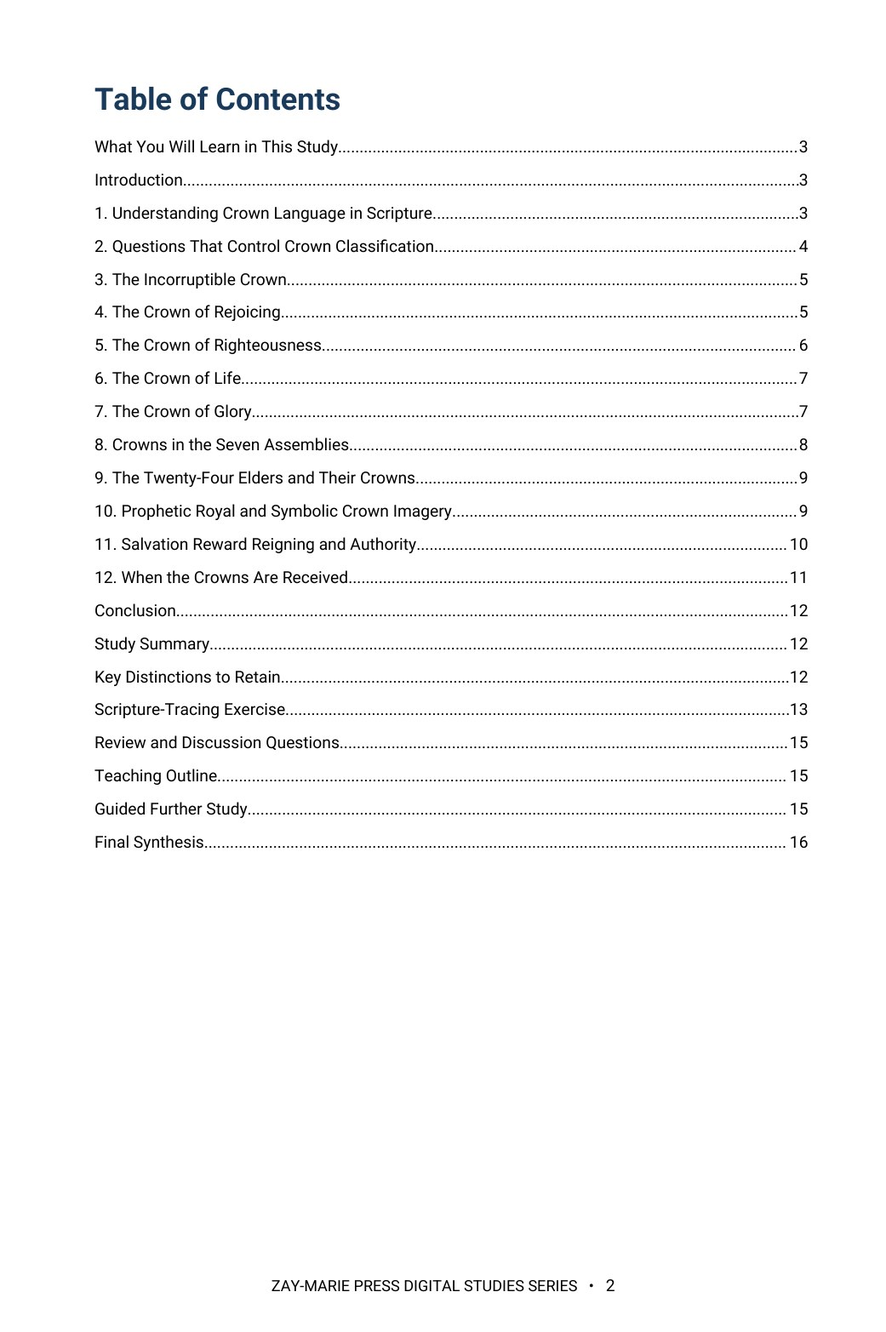
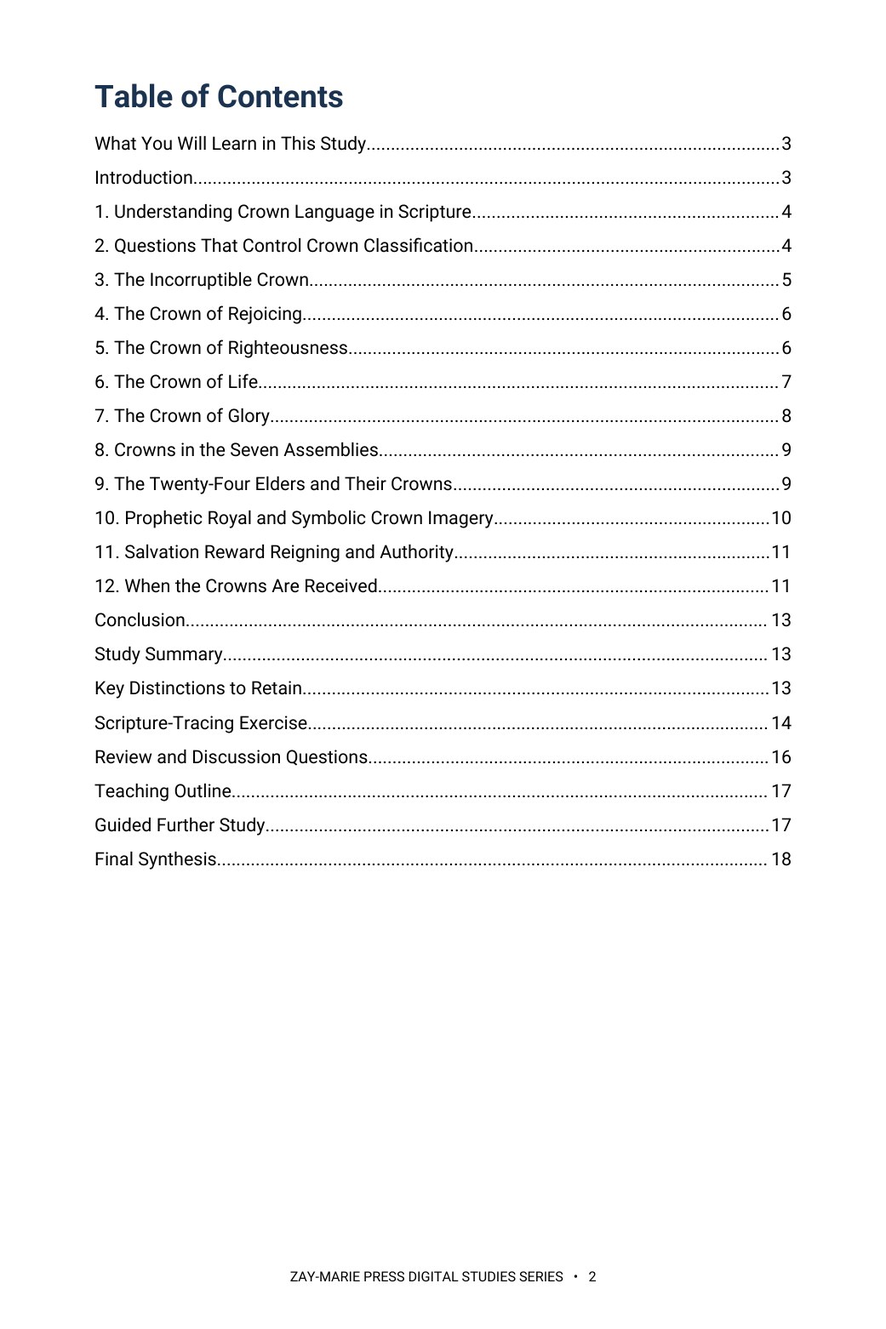
Study 33: retrofit to doctrinal upgrade and v1.48 layout (18 pp, 10 pt); site.js 33:18; previews 2, 3, 5; trackers v1.43/v1.137
Claude-Session: https://claude.ai/code/session_01KcENxFzE91mCRyTPWhcwnE

diff --git a/study-33-the-crowns-of-scripture.html b/study-33-the-crowns-of-scripture.html
@@ -2,12 +2,12 @@
 <html lang="en"><head><meta charset="utf-8"><meta name="viewport" content="width=device-width,initial-scale=1"><title>The Crowns of Scripture | Zay-Marie Press</title><meta name="description" content="Distinguish the crowns of Scripture by their recipients, settings, conditions, timing, and purpose without combining distinct reward, prophetic, royal, and symbolic passages."><link rel="stylesheet" href="styles.css?v=20260928-8"><link rel="icon" type="image/png" href="assets/zay-marie-press-favicon.png"><style>
 .study-detail-page{background:#fff;color:#252525}.detail-hero{background:linear-gradient(135deg,#f8f5ec,#e3ece2);padding:58px 0}.detail-hero-grid{display:grid;grid-template-columns:minmax(250px,.72fr) minmax(0,1.28fr);gap:58px;align-items:center}.detail-cover{max-width:390px;margin:auto}.detail-cover img{display:block;width:100%;height:auto;box-shadow:0 14px 36px rgba(8,45,69,.18)}.detail-hero h1{font-size:clamp(2.7rem,5vw,4.7rem);line-height:1.02;margin:8px 0 10px;color:#143823}.detail-subtitle{font-family:Georgia,serif;font-size:1.35rem;font-weight:700;color:#082d45;margin:0 0 7px}.detail-kicker{font-family:Georgia,serif;font-style:italic;font-size:1.05rem;color:#4a4a44;margin:0 0 22px}.detail-copy{font-size:1.08rem;line-height:1.65;max-width:760px}.detail-buyline{display:flex;align-items:center;gap:18px;flex-wrap:wrap;margin-top:25px}.detail-price{font-family:Georgia,serif;font-size:2rem;font-weight:700;color:#143823}.detail-format,.preview-card .page-no{font-family:Arial,sans-serif;font-size:.76rem;font-weight:700;letter-spacing:.1em;text-transform:uppercase;color:#176b3a}.detail-button{display:inline-block;background:#176b3a;color:#fff;padding:13px 22px;font-family:Arial,sans-serif;font-size:.8rem;font-weight:700;letter-spacing:.07em;text-transform:uppercase}.detail-button.pending{opacity:.72;cursor:default}.detail-section{padding:66px 0}.detail-section.soft{background:#f6f7f2}.detail-section.cream{background:#faf8f2}.detail-section h2{color:#143823;margin:6px 0 18px;font-size:clamp(2rem,3.4vw,3rem)}.detail-section .lead{max-width:920px;font-size:1.1rem;line-height:1.62}.study-distinction{max-width:920px;margin-top:28px;margin-bottom:28px;padding:26px 28px;background:#fff;border:1px solid #d8d1bf;border-left:4px solid #b8871c}.study-distinction h3{margin:0 0 10px;color:#143823}.study-distinction p{margin:0 0 14px;line-height:1.62}.study-distinction a{font-family:Arial,sans-serif;font-weight:700;color:#176b3a;text-decoration:none}.study-points{display:grid;grid-template-columns:repeat(3,1fr);gap:18px;margin-top:28px;margin-bottom:28px}.study-point,.scripture-card,.preview-card,.include-item{background:#fff;border:1px solid var(--line);text-align:left}.study-point{border-top:3px solid #176b3a;padding:22px}.study-point h3{color:#143823;margin:0 0 8px;font-size:1.2rem}.study-point p,.scripture-card p,.preview-card p,.include-item p{margin:0;line-height:1.55}.scripture-grid{display:grid;grid-template-columns:repeat(4,1fr);gap:14px;margin-top:24px;margin-bottom:24px}.scripture-card{padding:22px 20px;color:#143823}.scripture-card h3{margin:0 0 9px;font-family:Georgia,serif;font-size:1rem;line-height:1.35}.scripture-card p{font-size:.94rem;color:#45453f}.excerpt{max-width:900px;margin:28px auto;border-left:4px solid #b8871c;padding:10px 0 10px 28px}.excerpt blockquote{font-family:Georgia,serif;font-size:clamp(1.45rem,2.5vw,2rem);line-height:1.45;color:#143823;margin:0 0 16px}.excerpt p{line-height:1.6;margin:0}.preview-grid{display:grid;grid-template-columns:repeat(2,1fr);gap:20px;margin-top:28px;margin-bottom:28px}.preview-card{padding:18px;min-height:210px;box-shadow:0 7px 20px rgba(20,40,25,.05)}.preview-image-link{display:block;margin:0 0 18px}.preview-image-link img{display:block;width:100%;height:auto;border:1px solid #d8d1bf;box-shadow:0 8px 22px rgba(20,40,25,.1);transition:transform .18s ease,box-shadow .18s ease}.preview-image-link:hover img{transform:translateY(-2px);box-shadow:0 11px 28px rgba(20,40,25,.16)}.preview-card h3{color:#143823;margin:8px 0 10px}.preview-instruction{margin:10px 0 0;font-family:Arial,sans-serif;font-size:.78rem;letter-spacing:.04em;color:#5b5b55}.includes-grid{display:grid;grid-template-columns:repeat(4,1fr);gap:14px;margin-top:26px}.include-item{padding:22px 20px;color:#143823}.include-item h3{margin:0 0 9px;font-family:Arial,sans-serif;font-size:.86rem;line-height:1.35;letter-spacing:.02em}.include-item p{font-size:.94rem;color:#45453f}.final-buy{background:#082d45;color:#fff;border-top:4px solid #b8871c;padding:42px 48px;display:grid;grid-template-columns:1fr auto;gap:36px;align-items:center}.final-buy .eyebrow,.final-buy h2,.final-buy .detail-price{color:#fff}.final-buy h2{margin:7px 0 6px}.final-buy p{margin:0}.final-offer{text-align:center}.back-link{display:inline-block;margin-top:18px;color:#143823;font-family:Arial,sans-serif;font-weight:700;text-decoration:none}.preview-lightbox{position:fixed;inset:0;z-index:10000;display:none;align-items:flex-start;justify-content:center;background:rgba(8,22,16,.88);padding:24px;overflow:auto}.preview-lightbox.open{display:flex}.preview-lightbox img{display:block;width:auto;height:auto;max-width:none;box-shadow:0 18px 55px rgba(0,0,0,.4);background:#fff}.preview-lightbox-close{position:fixed;top:18px;right:24px;z-index:10001;width:46px;height:46px;border:1px solid rgba(255,255,255,.65);border-radius:50%;background:rgba(0,0,0,.55);color:#fff;font:32px/1 Arial,sans-serif;cursor:pointer}@media(max-width:900px){.detail-hero-grid{grid-template-columns:1fr;gap:34px}.detail-cover{max-width:330px}.study-points{grid-template-columns:repeat(2,1fr)}.scripture-grid,.includes-grid{grid-template-columns:repeat(2,1fr)}.preview-grid,.final-buy{grid-template-columns:1fr}.final-offer{text-align:left}}@media(max-width:560px){.detail-hero{padding:42px 0}.detail-section{padding:50px 0}.study-points,.scripture-grid,.includes-grid{grid-template-columns:1fr}.final-buy{padding:32px 24px}.detail-buyline{align-items:flex-start;flex-direction:column;gap:8px}.preview-lightbox{padding:58px 10px 24px}.preview-lightbox img{width:100%;max-width:100%;height:auto}}</style></head><body class="study-detail-page">
 <header class="site-header"><div class="wrap nav"><a class="logo" href="index.html" aria-label="Zay-Marie Press home"><img src="assets/zay-marie-press-logo-hq.png" alt="Zay-Marie Press" width="420" height="238"></a><button class="menu-toggle" type="button" aria-expanded="false" aria-controls="primary-nav">MENU</button><nav aria-label="Primary navigation" class="primary-nav" id="primary-nav"><a href="index.html">HOME</a><a href="books.html">BOOKS</a><a href="series.html">SERIES</a><a class="active" aria-current="page" href="digital-studies.html">DIGITAL STUDIES</a><a href="biblical-hermeneutics-course.html">COURSE</a><a href="about.html">ABOUT</a><a href="resources.html">RESOURCES</a><a href="contact.html">CONTACT</a></nav></div></header><main>
-<section class="detail-hero"><div class="wrap detail-hero-grid"><div class="detail-cover"><picture><source srcset="assets/study-33-cover.webp" type="image/webp"><img src="assets/study-33-cover.jpg" alt="The Crowns of Scripture cover"></picture></div><div><div class="eyebrow">STUDY 33 · DIGITAL STUDY</div><h1>The Crowns of Scripture</h1><p class="detail-subtitle">Distinguishing Their Recipients, Timing, Basis, and Purpose</p><p class="detail-kicker">A disciplined study of crown language, reward, endurance, accountability, and royal authority</p><p class="detail-copy">Crown passages are often gathered into one familiar list and assigned to every believer without first asking who is addressed, what kind of crown is in view, when it is received, or why it is given. Scripture’s own contexts require more careful classification.</p><p class="detail-copy">This study examines Pauline reward passages, prophetic promises, Revelation’s crowned figures, and royal symbolism. It distinguishes salvation, reward, honor, reigning, authority, vindication, and worship while preserving each passage’s stated audience and programmatic setting.</p><div class="detail-buyline"><span class="detail-price">$5.99</span><span class="detail-format">Digital PDF · 16 Pages</span><span class="detail-button pending" aria-disabled="true">Checkout Coming Soon</span></div></div></div></section>
+<section class="detail-hero"><div class="wrap detail-hero-grid"><div class="detail-cover"><picture><source srcset="assets/study-33-cover.webp" type="image/webp"><img src="assets/study-33-cover.jpg" alt="The Crowns of Scripture cover"></picture></div><div><div class="eyebrow">STUDY 33 · DIGITAL STUDY</div><h1>The Crowns of Scripture</h1><p class="detail-subtitle">Distinguishing Their Recipients, Timing, Basis, and Purpose</p><p class="detail-kicker">A disciplined study of crown language, reward, endurance, accountability, and royal authority</p><p class="detail-copy">Crown passages are often gathered into one familiar list and assigned to every believer without first asking who is addressed, what kind of crown is in view, when it is received, or why it is given. Scripture’s own contexts require more careful classification.</p><p class="detail-copy">This study examines Pauline reward passages, prophetic promises, Revelation’s crowned figures, and royal symbolism. It distinguishes salvation, reward, honor, reigning, authority, vindication, and worship while preserving each passage’s stated audience and programmatic setting.</p><div class="detail-buyline"><span class="detail-price">$5.99</span><span class="detail-format">Digital PDF · 18 Pages</span><span class="detail-button pending" aria-disabled="true">Checkout Coming Soon</span></div></div></div></section>
 <section class="detail-section"><div class="wrap"><div class="eyebrow">ABOUT THIS STUDY</div><h2>Crown Language Is Not One Uniform Category</h2><p class="lead">Scripture uses crowns for disciplined service, ministry fruit, faithful completion, endurance, shepherding, overcoming, delegated authority, worship, symbolic identity, and Christ’s royal supremacy. Similar imagery does not make every passage identical in audience or purpose.</p><p class="lead">The study begins with vocabulary and classification controls, then follows each major passage in context. Conclusions are identified as explicit, necessarily inferred, reasonably inferred, or tentative so familiar teaching never outruns the evidence.</p><p class="lead">This is not a study of Scripture’s judgments as a whole, which Study 31 classifies by subject, time, and standard, nor of Paul’s own Day-of-Christ language, which Study 8 defines on its own terms. Its task is narrower: to ask, of each individual crown passage, who receives it, for what, and under what image — service, endurance, shepherding, or royal supremacy — so that one familiar word never flattens several distinct pictures into a single reward.</p><div class="study-distinction"><h3>How These Studies Relate</h3><p>Study 33 distinguishes reward crowns from other crown imagery, honor, and royal authority according to context.</p><p><a href="study-31-the-judgments-of-scripture.html">Study 31 — The Judgments of Scripture</a> Locate reward and the Judgment Seat among Scripture’s distinct judgments; this prevents a reward image from being confused with condemnation or another judgment scene.</p><p><a href="study-08-the-day-of-christ.html">Study 8 — The Day of Christ</a> Check what Paul’s Day-of-Christ passages actually say about future rejoicing and completion before equating every reference with a specific crown.</p><p class="connection-guide-link"><a href="study-connections.html#study-33">Explore the full connection guide for Study 33 →</a></p></div><div class="cross-strand-note"><p class="cross-strand-label">FROM THE PARABLES STRAND</p><p>Three parables raise reward questions this study answers by classification rather than assumption.</p><p><a href="parable-21-the-talents.html">The Talents</a> · <a href="parable-22-the-minas.html">The Minas</a> · <a href="parable-29-the-laborers-in-the-vineyard.html">The Laborers in the Vineyard</a></p></div></div></section>
 <section class="detail-section soft"><div class="wrap"><div class="eyebrow">WHAT YOU’LL STUDY</div><h2>Classify Every Crown Before Combining Passages</h2><div class="study-points"><div class="study-point"><h3>Language and Context</h3><p>Distinguish <em>stephanos</em>, <em>diadema</em>, metaphorical reward, and symbolic crown imagery.</p></div><div class="study-point"><h3>Recipients</h3><p>Identify whether Paul, members of the Body, elders, overcomers, heavenly elders, or Christ is in view.</p></div><div class="study-point"><h3>Basis and Condition</h3><p>Trace discipline, ministry fruit, faithful completion, endurance, shepherding, and overcoming.</p></div><div class="study-point"><h3>Timing</h3><p>Compare Christ’s appearing, the Judgment Seat of Christ, death, approval, Kingdom expectation, and throne visions.</p></div><div class="study-point"><h3>Purpose</h3><p>Separate reward, joy, honor, vindication, delegated authority, worship, and royal supremacy.</p></div><div class="study-point"><h3>Programmatic Setting</h3><p>Test each crown promise against its stated recipients, timing, and setting before deciding how it relates to the others.</p></div></div></div></section>
 <section class="detail-section cream"><div class="wrap"><div class="eyebrow">KEY SCRIPTURES</div><h2>Follow the Crown Passages in Their Own Settings</h2><div class="scripture-grid"><div class="scripture-card"><h3>1 Corinthians 9:24–27</h3><p>Discipline, service, approval, and an incorruptible crown.</p></div><div class="scripture-card"><h3>1 Thessalonians 2:19–20</h3><p>Paul’s converts as his crown and joy at Christ’s coming.</p></div><div class="scripture-card"><h3>2 Timothy 4:6–8</h3><p>Faithful completion, Christ’s appearing, and the crown of righteousness.</p></div><div class="scripture-card"><h3>James 1:12</h3><p>Endurance under trial and the crown of life.</p></div><div class="scripture-card"><h3>1 Peter 5:1–4</h3><p>Faithful elders and the unfading crown of glory.</p></div><div class="scripture-card"><h3>Revelation 2–3</h3><p>Overcoming, faithfulness, authority, and crown warnings.</p></div><div class="scripture-card"><h3>Revelation 4:4, 10</h3><p>The twenty-four elders, crowned worship, and derived honor.</p></div><div class="scripture-card"><h3>Revelation 19:11–16</h3><p>Christ’s many diadems and unique royal supremacy.</p></div></div></div></section>
 <section class="detail-section"><div class="wrap"><div class="eyebrow">FROM THE STUDY</div><h2>Similar Imagery Does Not Create Transfer</h2><div class="excerpt"><blockquote>“Crown passages must be classified before they are combined.”</blockquote><p>Audience, program, form, basis, timing, purpose, and level of certainty protect the reader from turning shared imagery into an unauthorized transfer of promises or responsibilities.</p></div></div></section>
 <section class="detail-section soft"><div class="wrap"><div class="eyebrow">A LOOK INSIDE</div><h2>Preview the Study Before You Purchase</h2><p class="preview-instruction">Click any page to enlarge it for reading.</p><div class="preview-grid"><div class="preview-card"><a class="preview-image-link" data-preview-lightbox href="assets/study-33-page-2.jpg"><img src="assets/study-33-page-2.jpg" alt="Study 33 interior preview — page 2, table of contents"></a><div class="page-no">Page 2</div><h3>Table of Contents</h3><p>See how the study moves from crown vocabulary through each passage to timing and classification.</p></div><div class="preview-card"><a class="preview-image-link" data-preview-lightbox href="assets/study-33-page-3.jpg"><img src="assets/study-33-page-3.jpg" alt="Study 33 interior preview — page 3, What You Will Learn and Study Goal"></a><div class="page-no">Page 3</div><h3>What You Will Learn</h3><p>Begin with the skills you will practice in classifying each crown passage by its audience, condition, and timing.</p></div><div class="preview-card"><a class="preview-image-link" data-preview-lightbox href="assets/study-33-page-5.jpg"><img src="assets/study-33-page-5.jpg" alt="Study 33 interior preview — page 5, The Incorruptible Crown"></a><div class="page-no">Page 5</div><h3>The Incorruptible Crown</h3><p>Follow Paul’s athletic image in 1 Corinthians 9 and the wider passage on evaluating service.</p></div></div></div></section>
-<section class="detail-section"><div class="wrap"><div class="eyebrow">WHAT’S INCLUDED</div><h2>A Focused Study Built for<br>Classification and Careful Interpretation</h2><div class="includes-grid"><div class="include-item"><h3>16-Page Biblical Study</h3><p>A substantial treatment of the principal crown passages and their distinct settings.</p></div><div class="include-item"><h3>Twelve Teaching Sections</h3><p>Move from vocabulary and controls through Pauline, prophetic, symbolic, and royal uses.</p></div><div class="include-item"><h3>Passage Classification Method</h3><p>Identify audience, program, form, basis, timing, purpose, and evidentiary certainty.</p></div><div class="include-item"><h3>High-Contrast Tables</h3><p>Compare crown passages, recipients, timing, and warranted conclusions clearly.</p></div><div class="include-item"><h3>Scripture-Tracing Exercise</h3><p>Work through Pauline reward, prophetic endurance, elder, throne, and royal passages.</p></div><div class="include-item"><h3>Review Questions</h3><p>Test your ability to distinguish shared imagery from programmatic ownership.</p></div><div class="include-item"><h3>Teaching Outline</h3><p>Use a ready framework for presenting crown language responsibly and accurately.</p></div><div class="include-item"><h3>Guided Further Study</h3><p>Grouped passages and evidence controls support continued independent investigation.</p></div></div></div></section>
-<section class="detail-section cream"><div class="wrap"><div class="final-buy"><div><div class="eyebrow">STUDY 33 · DIGITAL STUDY</div><h2>The Crowns of Scripture</h2><p>Digital PDF · 16 Pages · For personal use</p></div><div class="final-offer"><div class="detail-price">$5.99</div><span class="detail-button pending" aria-disabled="true">Checkout Coming Soon</span></div></div><a class="back-link" href="digital-studies.html">← Back to All Digital Studies</a></div></section><section class="study-method-course-bridge"><div class="wrap"><div class="study-method-course-panel"><div><div class="eyebrow">BUILD THE INTERPRETIVE METHOD</div><h2>Want More Than a Focused Study?</h2><p>Digital Studies examine particular biblical subjects and difficult passages. The 40-lesson Biblical Hermeneutics course teaches a complete, repeatable method for establishing meaning in context, determining proper assignment, and making responsible application.</p></div><a class="btn btn-primary" href="biblical-hermeneutics-course.html">BIBLICAL HERMENEUTICS COURSE</a></div></div></section></main>
+<section class="detail-section"><div class="wrap"><div class="eyebrow">WHAT’S INCLUDED</div><h2>A Focused Study Built for<br>Classification and Careful Interpretation</h2><div class="includes-grid"><div class="include-item"><h3>18-Page Biblical Study</h3><p>A substantial treatment of the principal crown passages and their distinct settings.</p></div><div class="include-item"><h3>Twelve Teaching Sections</h3><p>Move from vocabulary and controls through Pauline, prophetic, symbolic, and royal uses.</p></div><div class="include-item"><h3>Passage Classification Method</h3><p>Identify audience, program, form, basis, timing, purpose, and evidentiary certainty.</p></div><div class="include-item"><h3>High-Contrast Tables</h3><p>Compare crown passages, recipients, timing, and warranted conclusions clearly.</p></div><div class="include-item"><h3>Scripture-Tracing Exercise</h3><p>Work through Pauline reward, prophetic endurance, elder, throne, and royal passages.</p></div><div class="include-item"><h3>Review Questions</h3><p>Test your ability to distinguish shared imagery from programmatic ownership.</p></div><div class="include-item"><h3>Teaching Outline</h3><p>Use a ready framework for presenting crown language responsibly and accurately.</p></div><div class="include-item"><h3>Guided Further Study</h3><p>Grouped passages and evidence controls support continued independent investigation.</p></div></div></div></section>
+<section class="detail-section cream"><div class="wrap"><div class="final-buy"><div><div class="eyebrow">STUDY 33 · DIGITAL STUDY</div><h2>The Crowns of Scripture</h2><p>Digital PDF · 18 Pages · For personal use</p></div><div class="final-offer"><div class="detail-price">$5.99</div><span class="detail-button pending" aria-disabled="true">Checkout Coming Soon</span></div></div><a class="back-link" href="digital-studies.html">← Back to All Digital Studies</a></div></section><section class="study-method-course-bridge"><div class="wrap"><div class="study-method-course-panel"><div><div class="eyebrow">BUILD THE INTERPRETIVE METHOD</div><h2>Want More Than a Focused Study?</h2><p>Digital Studies examine particular biblical subjects and difficult passages. The 40-lesson Biblical Hermeneutics course teaches a complete, repeatable method for establishing meaning in context, determining proper assignment, and making responsible application.</p></div><a class="btn btn-primary" href="biblical-hermeneutics-course.html">BIBLICAL HERMENEUTICS COURSE</a></div></div></section></main>
 <div class="preview-lightbox" id="preview-lightbox" role="dialog" aria-modal="true" aria-label="Expanded study preview"><button class="preview-lightbox-close" type="button" aria-label="Close preview">×</button><img id="preview-lightbox-image" alt=""></div><footer class="site-footer"><div class="wrap footer-grid"><div class="footer-about"><h3>Zay-Marie Press</h3><p class="footer-tagline"><em>Where the Bible Means What It Says.</em></p><p>Zay-Marie Press is a Christian theological publisher dedicated to producing doctrinally precise, carefully structured biblical resources that equip pastors, teachers, and serious students with clarity, depth, and Scripture-anchored truth.</p><p><a href="https://zaymariepress.com">zaymariepress.com</a><br><a href="mailto:info@zaymariepress.com">info@zaymariepress.com</a></p></div><div class="footer-column"><h3>Explore</h3><div class="footer-links-stacked"><a href="books.html">Books</a><br><a href="series.html">Series</a><br><a href="biblical-hermeneutics-course.html">Course</a><br><a href="digital-studies.html">Digital Studies</a><br><a href="resources.html">Resources</a><br><a href="bible-book-summaries.html">Bible Book Summaries</a><br><a href="doctrinal-packets.html">Doctrinal Packets</a><br><a href="historical-drift.html">Historical Drift</a><br><a href="about.html">About</a><br><a href="contact.html">Contact</a></div></div><div class="footer-column"><h3>Reader Support</h3><div class="footer-links-stacked"><a href="reader-support.html#faq">FAQ</a><br><a href="reader-support.html#shipping-returns">Shipping &amp; Returns</a><br><a href="reader-support.html#digital-downloads">Digital Downloads</a><br><a href="reader-support.html#contact-support">Contact Support</a></div></div><div class="footer-column"><h3>Acts Overlap</h3><p><strong>Acts Overlap Theology Series</strong></p><p><em>Two Distinct Streams. One Overlap.</em></p><p><a href="series.html">Series Overview</a></p></div></div><div class="wrap footer-bottom">© 2026 Zay-Marie Press. All rights reserved.</div></footer><script src="site.js"></script><script>const lightbox=document.getElementById('preview-lightbox'),lightboxImage=document.getElementById('preview-lightbox-image'),closeLightbox=()=>{lightbox.classList.remove('open');lightboxImage.src='';};document.querySelectorAll('[data-preview-lightbox]').forEach(link=>link.addEventListener('click',event=>{event.preventDefault();lightboxImage.src=link.href;lightboxImage.alt=link.querySelector('img').alt;lightbox.classList.add('open');}));document.querySelector('.preview-lightbox-close').addEventListener('click',closeLightbox);lightbox.addEventListener('click',event=>{if(event.target===lightbox)closeLightbox();});document.addEventListener('keydown',event=>{if(event.key==='Escape')closeLightbox();});</script></body></html>

diff --git a/site.js b/site.js
@@ -62,7 +62,7 @@ const resourceModal=document.querySelector('#resource-modal'), resourceModalTitl
 if(resourceModal&&resourceModalTriggers.length){const closeResourceModal=()=>{resourceModal.hidden=true;document.body.classList.remove('resource-modal-open');lastResourceTrigger?.focus();};resourceModalTriggers.forEach(trigger=>trigger.addEventListener('click',()=>{lastResourceTrigger=trigger;if(resourceModalTitle)resourceModalTitle.textContent=trigger.dataset.title||'Resource';if(resourceModalDescription)resourceModalDescription.textContent=trigger.dataset.description||'';if(resourceModalLink){resourceModalLink.href=trigger.dataset.href||'#';resourceModalLink.textContent=trigger.dataset.linkText||'OPEN RESOURCE';}resourceModal.hidden=false;document.body.classList.add('resource-modal-open');resourceModalClose?.focus();}));resourceModalClose?.addEventListener('click',closeResourceModal);resourceModal.addEventListener('click',e=>{if(e.target===resourceModal)closeResourceModal();});document.addEventListener('keydown',e=>{if(e.key==='Escape'&&!resourceModal.hidden)closeResourceModal();});}
 
 /* Display the verified final-PDF page count at the primary purchase decision point. */
-const digitalStudyPageCounts={1:17,2:14,3:16,4:18,5:16,6:16,7:14,8:13,9:16,10:20,11:15,12:15,13:19,14:15,15:16,16:16,17:18,18:18,19:16,20:16,21:17,22:16,23:14,24:16,25:17,26:16,27:16,28:16,29:19,30:17,31:18,32:19,33:16,34:16,35:16,36:16,37:16,38:16,39:16,40:16,41:16,42:16,43:16,44:16,45:16,46:16,47:16,48:16,49:17,50:16,51:16,52:16,53:16,54:16,55:16,56:16,57:16,58:16,61:16,62:16,63:16,64:16,65:16,66:16,67:16,68:16,69:16,70:16,71:16};
+const digitalStudyPageCounts={1:17,2:14,3:16,4:18,5:16,6:16,7:14,8:13,9:16,10:20,11:15,12:15,13:19,14:15,15:16,16:16,17:18,18:18,19:16,20:16,21:17,22:16,23:14,24:16,25:17,26:16,27:16,28:16,29:19,30:17,31:18,32:19,33:18,34:16,35:16,36:16,37:16,38:16,39:16,40:16,41:16,42:16,43:16,44:16,45:16,46:16,47:16,48:16,49:17,50:16,51:16,52:16,53:16,54:16,55:16,56:16,57:16,58:16,61:16,62:16,63:16,64:16,65:16,66:16,67:16,68:16,69:16,70:16,71:16};
 const digitalStudyMatch=window.location.pathname.match(/\/study-(\d+)-/i);
 const digitalStudyFormat=document.querySelector('.detail-hero .detail-format');
 if(digitalStudyMatch&&digitalStudyFormat){const studyNumber=Number(digitalStudyMatch[1]),pageCount=digitalStudyPageCounts[studyNumber];if(pageCount)digitalStudyFormat.textContent=`Digital PDF · ${pageCount} Pages`;}

diff --git a/CLAUDE.md b/CLAUDE.md
@@ -21,7 +21,7 @@ These are kept in the repo at `controlling-documents/` and are the current versi
 - As of v1.48 (publisher directive, 2026-10-02), §6 sets the **body-text standard at 10 pt** and enforces the table-spacing rule, written into this file in the same pass: body paragraphs, lists, table body text and Table of Contents entries are Roboto Regular 10 pt black (previously 9 pt), at 6 pt after / 0 before / 1.08 line spacing (lists 0 pt after each item, 6 pt after the last); headings (17 pt), callout titles (10 pt bold caps), the "Study Outline" sub-heading (12 pt) and the footer are unchanged. Every table, callout boxes included, has 10 pt of controlled spacing before and after: the paragraph before a table has at least 10 pt space-after and the paragraph after it at least 10 pt space-before, so body text never touches a table (the defect was seen on Study 29, under a KJV table). Studies built at 9 pt (1, 3, 7, 8, 10, 23, 26, 29 and the other rebuilt studies) are reset to 10 pt when reopened or in the Wave 5 sweep, and page counts, TOC pages, previews and `site.js` follow each rebuild. In every study check (Step 1) report the body size and measure the first paragraph after each table. Study 29 is the first study rebuilt to it.
 **`controlling-documents/Digital_Studies_Relationship_Map_v1.39.md`** — records each study's distinct subject, its related studies, the eight priced six-study collections, the Paul's Missionary Journeys cross-reference map, and the five primary catalog categories (currently version 1.39, covers Studies 1–71; update it as new studies publish, bump the version number, rename the file to match, and log the change in its own version-history table — mirroring the Master Standard's `_vX.Y` filename convention). Check a proposed topic against it before recommending or writing a new study. (2026-09-28: the file was missing from this repo despite this note referencing it; replaced from the publisher's copy and bumped v1.15→v1.25 in the same pass. If this note ever again points to a version not present under `controlling-documents/`, ask the publisher for a copy rather than proceeding without the check.)
 - **`controlling-documents/Digital_Studies_Category_Standard_v1.1.md`** — FINAL and binding (publisher, 2026-10-01): the rules for the five primary catalog categories (Foundations, Israel & Prophecy, Body of Christ, Passages, Doctrinal Themes), the ordered decision procedure for new studies, the precedents, all 71 fixed assignments, and the cover-label form for each category. Read it before placing any card or cover label. Do not ask the publisher where a study belongs; apply the procedure and state the result. Only the publisher changes a ruling; then bump this Standard's version and filename, re-letter the cover, and update the Relationship Map.
-- **`controlling-documents/Doctrinal_Upgrade_Retrofit_Plan_v1.42.md`** — working tracker for retrofitting Studies 1–59 to the 2026-10-02 doctrinal upgrade (Framework/PAM v1.1, Master Standard v1.40, Rules 7–17): withdrawn-wording search keys, impact tiers, waves and the per-study method. Read it before continuing the retrofit in any session; update status, bump the version and rename the file as work proceeds.
+- **`controlling-documents/Doctrinal_Upgrade_Retrofit_Plan_v1.43.md`** — working tracker for retrofitting Studies 1–59 to the 2026-10-02 doctrinal upgrade (Framework/PAM v1.1, Master Standard v1.40, Rules 7–17): withdrawn-wording search keys, impact tiers, waves and the per-study method. Read it before continuing the retrofit in any session; update status, bump the version and rename the file as work proceeds.
 - **`controlling-documents/Doctrinal_Packet_Standard_v0.3.md`** — Doctrinal Packet Standard (DRAFT; §7 approved). Governs the separate Doctrinal Packets product strand (5-page interpretive PDFs per Bible book — a print-friendly cover as page 1 plus 4 content pages, $2.99, KJV, pilot: Genesis, live at `packet-genesis.html`, hub `doctrinal-packets.html`; site pages say "5 Pages", cover styles live in `packets.css`, Old Testament blue and New Testament soft pale green, hub listed in Bible order). **Preview rule (publisher directive, 2026-09-29, packets only):** previews show about one page's worth in two cropped views (top of page 1 through the anchor texts; the chart section) — never the exegesis, architecture, Mystery contrast, logic chain, outline, or closing. Master Standard §16/§17 still govern Digital Studies. Bump the version and rename the file as the Standard is finalized.
 - **`controlling-documents/Preview_Page_Spoiler_Retrofit_Audit_v1.4.md`** — working tracker for the Studies 1–60 preview-page conclusion-spoiler retrofit (see the section below). Read it before continuing that audit in any session; update its status fields and changelog, bump the version, and rename the file to match as the audit proceeds — same `_vX.Y` convention as the other controlling documents. As of v1.1, the website-side half was DONE: all 60 studies' "What You'll Study" text was judged against the rule (methodology documented in the file) and 22 points across 11 studies were rewritten and pushed; an unrelated Study 22 content bug (Study 21's content had leaked into it) was also found and fixed. As of v1.2, the publisher supplied Studies 1–60's interior production PDFs and the interior-PDF half was also surveyed (read-only): 10 studies (37, 41, 45, 47, 48, 49, 51, 52, 53, 54) were found to have at least one interior "What You Will Learn" violation, 50 studies were confirmed compliant, and the orphaned `assets/study-45-sanctification-under-grace.docx` (removed from the repo per the publisher in v1.0) was confirmed word-for-word identical to Study 45's actual production interior PDF content. As of v1.3, the publisher supplied editable DOCX sources for all 10 violating studies; all 15 violating points were rewritten and approved, delivered as corrected final PDFs, and — along the way — a second defect was found and fixed (Studies 47 and 48's source DOCX still had an unintegrated cover placeholder despite both being long-published live with real covers; fixed by inserting the existing approved cover art). The website's "What You Will Learn" preview image (`study-NN-page-3.jpg`) was regenerated from the corrected content for all 10 studies and pushed to `main` (commit `cea1859`), verified against a fresh clone. **The website side of this audit is now fully compliant for all 60 studies.** Outstanding: the publisher's purchasable interior PDF files themselves have corrected versions delivered, but distribution to existing purchasers was decided by the publisher on 2026-09-29: silent swap of the files behind the existing downloads, no reissue notice (recorded in the v1.4 changelog entry; the product files are not in this repo).
 

diff --git a/controlling-documents/Doctrinal_Upgrade_Retrofit_Plan_v1.43.md b/controlling-documents/Doctrinal_Upgrade_Retrofit_Plan_v1.43.md
@@ -52,6 +52,7 @@ Working tracker for correcting published studies to the Framework/PAM v1.1, Mast
 | 29 One Taken and the Other Left | Tier 2 read (one taken/left ruling, Day of the Lord, anchors, internal terms) | DONE 2026-10-02 (v1.38; reset to 10 pt body and enforced table spacing in v1.40, 19 pp, site.js 29:19, previews 2, 3, 9): rebuilt to the Study 52 page geometry (16 → 17 pp at 9 pt, Roboto Regular/Bold). Removed 'the Framework’s assignment' (Conclusion) and 'Kingdom framework'; added the Body-not-in-the-Day-of-the-Lord line (section 9), the Matthew 25 nations line (section 7) and the 1 Thessalonians/Philippians reader-facing anchor (section 9). One taken/left reading already conformed (Israel’s Tribulation separation, not a rapture text). Previews 2, 3, 8 re-rendered. TOC check hardened (monotonic page search; Studies 23, 26 re-verified). Imprint extra KJV sentence left for Wave 5. |
 | 31 The Judgments of Scripture | Tier 2 read (Acts 28, Day of the Lord, Revelation, Galatians 3, anchors, internal terms) | DONE 2026-10-02 (v1.41): rebuilt to the Study 52 page geometry at 10 pt body with 10 pt table spacing (19 → 18 pp, Roboto Regular/Bold). Removed 'The Framework assigns … not a PAM assignment' (replaced by a Matthew 25 anchor), 'Acts Overlap framework', 'five-question framework'; Acts 28 'not a transfer'; Body-not-in-the-Day-of-the-Lord and Revelation/Daniel lines (section 6); Matthew 25 nations line (section 7); Galatians 3 standing sentence (section 3); Colossians/2 Timothy and 2 Peter/Jude anchors (sections 5, 8). Page text: 'framework' wording replaced (method / outline). Previews 2, 3, 5 re-rendered. Imprint extra KJV sentence left for Wave 5. |
 | 32 Covenant and Dispensational Theology | Tier 2 read (Rule 18 synagogue mention, Acts 28, overlap, Rule 17, Romans 11 passing citation, Revelation, Hebrews, internal terms) | DONE 2026-10-03 (v1.42): rebuilt to the Study 52 page geometry at 10 pt body with 10 pt table spacing (16 → 19 pp, Roboto Regular/Bold). Hebrews and Revelation 20–22 working-term sentences replaced by reader-facing wording; overlap sentence, Rule 17 sentence, Acts 28 'not a transfer', full Rule 18 sentence with short form, and the Romans 11 four boundaries plus triad added; 'macro-framework' kept as teaching vocabulary. Website: site.js 32:19, 19 Pages in the page text, previews 2, 3, 5 re-rendered. |
+| 33 The Crowns of Scripture | Tier 2 read (Revelation, overlap, anchors, internal terms) | DONE 2026-10-03 (v1.43): rebuilt to the Study 52 page geometry at 10 pt body with 10 pt table spacing (16 → 18 pp, Roboto Regular/Bold). Introduction PAM/Framework paragraph replaced by the reader-facing letters anchor (James, 1 Peter, 2 John, Philippians, 1 Thessalonians, 2 Timothy); Revelation 4 elders carry the Rule 14 line; overlap sentence added to the Conclusion; 'Pauline framework' changed to 'treatment'. Website: site.js 33:18, 18 Pages in the page text, previews 2, 3, 5 re-rendered. |
 | 39 The Church's Relationship to Israel's Scriptures | Abrahamic/covenant participation + overlap sentence | DONE 2026-10-02 (v1.23): interior corrected (16 pp, Roboto). Withdrawn overlap sentence replaced with the standing sentence and Acts 28 'not abolition and not a transfer' added (§9); 'Gentiles participate spiritually' replaced by the standing Galatians 3 sentence (§8) and 'whole/every covenant term' partial-transfer wording tightened (§8, Study Summary, Key Distinctions table); Romans 11 four-point list and triad added (Introduction); 2 Timothy and Philippians anchors converted and a Colossians anchor added. Sections moved down: TOC updated (7 numbers); 16 pp. Website: previews 2, 3, 5 re-rendered at 1041x1565; site.js 39:16 unchanged |
 | 40 Who Is Abraham's Seed? | Gal 3 / Abrahamic participation (core) | DONE 2026-10-02 (v1.22): interior corrected (16 pp, Roboto). Withdrawn overlap sentence replaced with the standing sentence (Introduction); Romans 11 four-point list and triad added (Introduction); the 'Gentiles participate spiritually / Abrahamic heirship, benefit, inheritance, connection' family replaced with the standing Galatians 3 sentence and plain wording (§6, §8, §10, Study Summary, Key Distinctions table); Romans 4 'participate in promise' and Teaching Outline 'share that benefit' reworded. Sections moved down: TOC updated (Conclusion p10, Scripture-Tracing p11, Guided Further Study p16); 16 pp. Website: preview pages 2, 3 and 4 re-rendered; site.js 40:16 unchanged |
 | 52 Sonship and Adoption | Gal 3 / Abrahamic participation | DONE 2026-10-02 (v1.21): interior corrected (16 pp, Roboto). Withdrawn Galatians 3:26–29 'Gentiles participate spiritually / ethnic distinction is kept' wording replaced by the standing Galatians 3 sentence (3.4) and the 'participation in the seed is spiritual' line reworded; Study 40 pointer parenthetical removed; nine 'The Framework does not assign…' anchors and the Hebrews sentence converted to the reader-facing forms; Romans 11 four-point list and triad added (Group 3). Shorter anchors moved sections up a page, so TOC numbers updated (§5 p9, §6 p11, Conclusion p12, etc.); total still 16 pp. Website: page-2 (TOC) preview re-rendered; pages 3 and 5 unchanged |
@@ -128,3 +129,4 @@ Working tracker for correcting published studies to the Framework/PAM v1.1, Mast
 - v1.40 (2026-10-02): Study 29 v2 (10 pt body, table spacing fixed; 19 pp) website step done: site.js 29:19, previews 2, 3 and 9 re-rendered (Luke 17 KJV table now on PDF page 9; study-29-page-8.jpg removed). Next: Wave 4 remainder (31, 32, 33); studies built at 9 pt reset to 10 pt when reopened or in Wave 5.
 - v1.41 (2026-10-02): Study 31 retrofit complete at 10 pt (see row). Next: Wave 4 remainder (32, 33): DOCX needed from the publisher for each. Open: Titus anchor ruling.
 - v1.42 (2026-10-03): Study 32 retrofit complete at 10 pt (see row). Next: Wave 4 remainder (33): DOCX needed from the publisher. Open: Titus anchor ruling.
+- v1.43 (2026-10-03): Study 33 retrofit complete at 10 pt (see row). Wave 4 is now complete. Next: Wave 5 verification sweep and 9 pt to 10 pt resets. Open: Titus anchor ruling.

diff --git a/controlling-documents/Digital_Studies_PAM_Audit_v1.137.md b/controlling-documents/Digital_Studies_PAM_Audit_v1.137.md
@@ -366,3 +366,4 @@ Study 15 PDF not yet supplied. Typography: none of Studies 2, 3, 6, 8 is in EB G
 - v1.134 (2026-10-02): Study 29 v2 live (10 pt body, enforced table spacing; 19 pp); previews 2, 3 and 9; site.js 29:19.
 - v1.135 (2026-10-02): Study 31 retrofitted at 10 pt: Framework/PAM sentence replaced by a Matthew 25 anchor, Acts 28 'not a transfer', Day-of-the-Lord/Revelation/Daniel, Matthew 25 nations, Galatians 3 and four anchor lines added; 18 pp; 'framework' wording removed from the page; previews 2, 3, 5.
 - v1.136 (2026-10-03): Study 32 retrofitted at 10 pt: Hebrews and Revelation 20–22 working-term sentences replaced; overlap, Rule 17, Acts 28 'not a transfer', full Rule 18 and Romans 11 boundaries added; 19 pp; previews 2, 3, 5; site.js 32:19.
+- v1.137 (2026-10-03): Study 33 retrofitted at 10 pt: PAM/Framework paragraph replaced by a reader-facing anchor; Rule 14 line on the twenty-four elders; overlap sentence added; 18 pp; previews 2, 3, 5; site.js 33:18.
